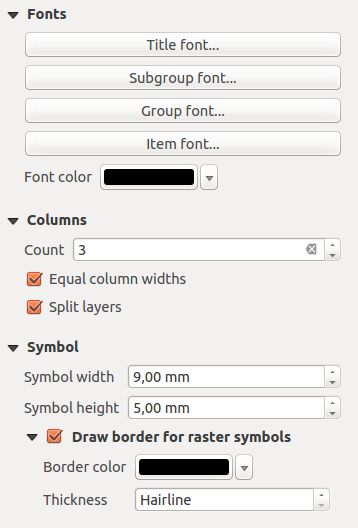
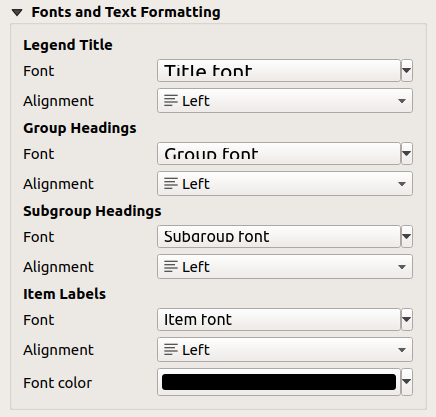
Update the legend item properties
adding an example and new screenshots

Changed region(s): [[0.0, 0.0, 0.9525, 0.6547], [0.0, 0.6235, 0.9525, 0.9976]]

diff --git a/source/docs/user_manual/print_composer/composer_items/composer_legend.rst b/source/docs/user_manual/print_composer/composer_items/composer_legend.rst
@@ -50,14 +50,18 @@ panel provides the following functionalities (see figure_layout_legend_ppt_):
 
 In Main properties you can:
 
-* change the title of the legend. It can be made dynamic using the
+* Change the :guilabel:`Title` of the legend. It can be made dynamic using the
   :ref:`data-defined override <data_defined>` setting, useful for example when
   generating atlas;
-* set the :guilabel:`Title alignment` to Left, Center or Right;
-* choose which :guilabel:`Map` item the current legend will refer to;
-* wrap the text of the legend on a given character: each time the character
-  appears, it's replaced by a line break;
-* use |checkbox| :guilabel:`Resize to fit contents` to control whether or
+* Choose which :guilabel:`Map` item the current legend will refer to.
+  By default, the map over which the legend item is drawn is picked and if none,
+  then it falls back to the `reference map <reference_map>`.
+* Wrap the text of the legend on a given character: each time the character
+  appears, it's replaced with a line break;
+* Set the symbols and text placement in the legend: the :guilabel:`Arrangement`
+  can be :guilabel:`Symbols on left` or :guilabel:`Symbols on right`. The default
+  value depends on whether the locale in use is right-to-left based or not.
+* Use |checkbox| :guilabel:`Resize to fit contents` to control whether or
   not a legend should be automatically resized to fit its contents. If
   unchecked, then the legend will never resize and instead just stick to
   whatever size the user has set. Any content which doesn't fit the size
@@ -105,10 +109,23 @@ panel provides the following functionalities (see figure_layout_legend_items_):
     features are nevertheless kept and shown in the layout map item.
   * |addExpression| :sup:`Add symbol expression` allows you to add expressions
     to each symbol label of a given layer. The label is represented by 
-    the variable "@symbol_label" in the expression.
+    the **@symbol_label** variable in the expression.
+    
+    For example, given a categorized layer, you can append to each class in the
+    legend their number of features, ie *class (number)*:
+    
+    #. Select the layer entry in the legend tree
+    #. Press the |addExpression| :sup:`Add symbol expression` button, opening
+       the :guilabel:`Expression String Builder` dialog
+    #. Enter the following expression::
+
+        concat( @symbol_label, ' (', @symbol_count, ')' )
+
+    #. Press :guilabel:`OK`
+
 
   While the default behavior of the legend item is to mimic the
-  :guilabel:`Layers panel` tree, displaying the same groups, layers and classes
+  :guilabel:`Layers` panel tree, displaying the same groups, layers and classes
   of symbology, right-click any item offers you options to hide layer's name or
   raise it as a group or subgroup. In case you have made some changes to a layer,
   you can revert them by choosing :guilabel:`Reset to defaults` from the
@@ -123,36 +140,70 @@ panel provides the following functionalities (see figure_layout_legend_items_):
   |checkbox| :guilabel:`Only show items inside current atlas feature` option.
 
 
-Fonts, Columns, Symbol
-----------------------
+Fonts
+-----
 
-The :guilabel:`Fonts`, :guilabel:`Columns` and :guilabel:`Symbol` groups of the
-legend :guilabel:`Item Properties` panel provide the following functionalities
-(see figure_layout_legend_fonts_):
+The :guilabel:`Fonts` group of the legend :guilabel:`Item Properties` panel
+provides the following functionalities:
 
 .. _figure_layout_legend_fonts:
 
 .. figure:: img/legend_fonts.png
    :align: center
 
-   Legend Fonts, Columns and Symbol groups
+   Legend Fonts properties
 
 * You can change the font of the legend title, group, subgroup and item (feature)
-  in the legend item using the font selector widget;
-* You provide the labels with a **Color** using the :ref:`color selector
-  <color-selector>` widget. The selected color will apply to all font items in the
-  legend;
-* Legend items can be arranged over several columns. Set the number of columns
-  in the :guilabel:`Count` |selectNumber| field. This value can be made dynamic
-  e.g., following atlas features, legend contents, the frame size...
+  in the legend item using the :ref:`font selector <font_selector>` widget
+* You can set for each of these levels the text :guilabel:`Alignment`: it can
+  be :guilabel:`Left` (default for left-to-right based locales),
+  :guilabel:`Center` or :guilabel:`Right` (default for right-to-left based
+  locales).
+* You set the :guilabel:`Color` of the labels using the :ref:`color selector
+  <color-selector>` widget. The selected color will apply to all the font items
+  in the legend.
 
-  * |checkbox| :guilabel:`Equal column widths` sets how legend columns should be
-    adjusted.
-  * The |checkbox| :guilabel:`Split layers` option allows a categorized or a
-    graduated layer legend to be divided between columns.
 
-* You can also change the width and height of the legend symbol, set a color and
-  a thickness in case of raster layer symbol.
+Columns
+-------
+
+Under the :guilabel:`Columns` group of the legend :guilabel:`Item Properties`
+panel, Legend items can be arranged over several columns:
+
+* Set the number of columns in the :guilabel:`Count` |selectNumber| field.
+  This value can be made dynamic e.g., following atlas features, legend
+  contents, the frame size...
+* |checkbox| :guilabel:`Equal column widths` sets how legend columns should be
+  adjusted.
+* The |checkbox| :guilabel:`Split layers` option allows a categorized or a
+  graduated layer legend to be divided between columns.
+
+.. _figure_layout_legend_columns:
+
+.. figure:: img/legend_columns.png
+   :align: center
+
+   Legend Columns settings
+
+
+Symbol
+------
+
+The :guilabel:`Symbol` group of the legend :guilabel:`Item Properties` panel
+configures the general size of symbols displayed next to the legend text.
+You can:
+
+* Set the :guilabel:`Symbol width` and :guilabel:`Symbol height`
+* |checkbox| :guilabel:`Draw stroke for raster symbols`: this adds an outline
+  to the symbol representing the band color of the raster layer; you can set
+  both the :guilabel:`Stroke color` and :guilabel:`Tickness`.
+
+.. _figure_layout_legend_symbol:
+
+.. figure:: img/legend_symbol.png
+   :align: center
+
+   Legend Symbol configuration
 
 
 WMS LegendGraphic and Spacing
@@ -177,8 +228,8 @@ The WMS legend content will be provided as a raster image.
 :guilabel:`WMS LegendGraphic` is used to be able to adjust the :guilabel:`Legend
 width` and the :guilabel:`Legend height` of the WMS legend raster image.
 
-:guilabel:`Spacing` around title, group, subgroup, symbol, icon label, box,
-column or line can be customized through this dialog.
+:guilabel:`Spacing` around title, groups, subgroups, symbols, labels, boxes,
+columns and lines can be customized through this dialog.
 
 
 .. Substitutions definitions - AVOID EDITING PAST THIS LINE
